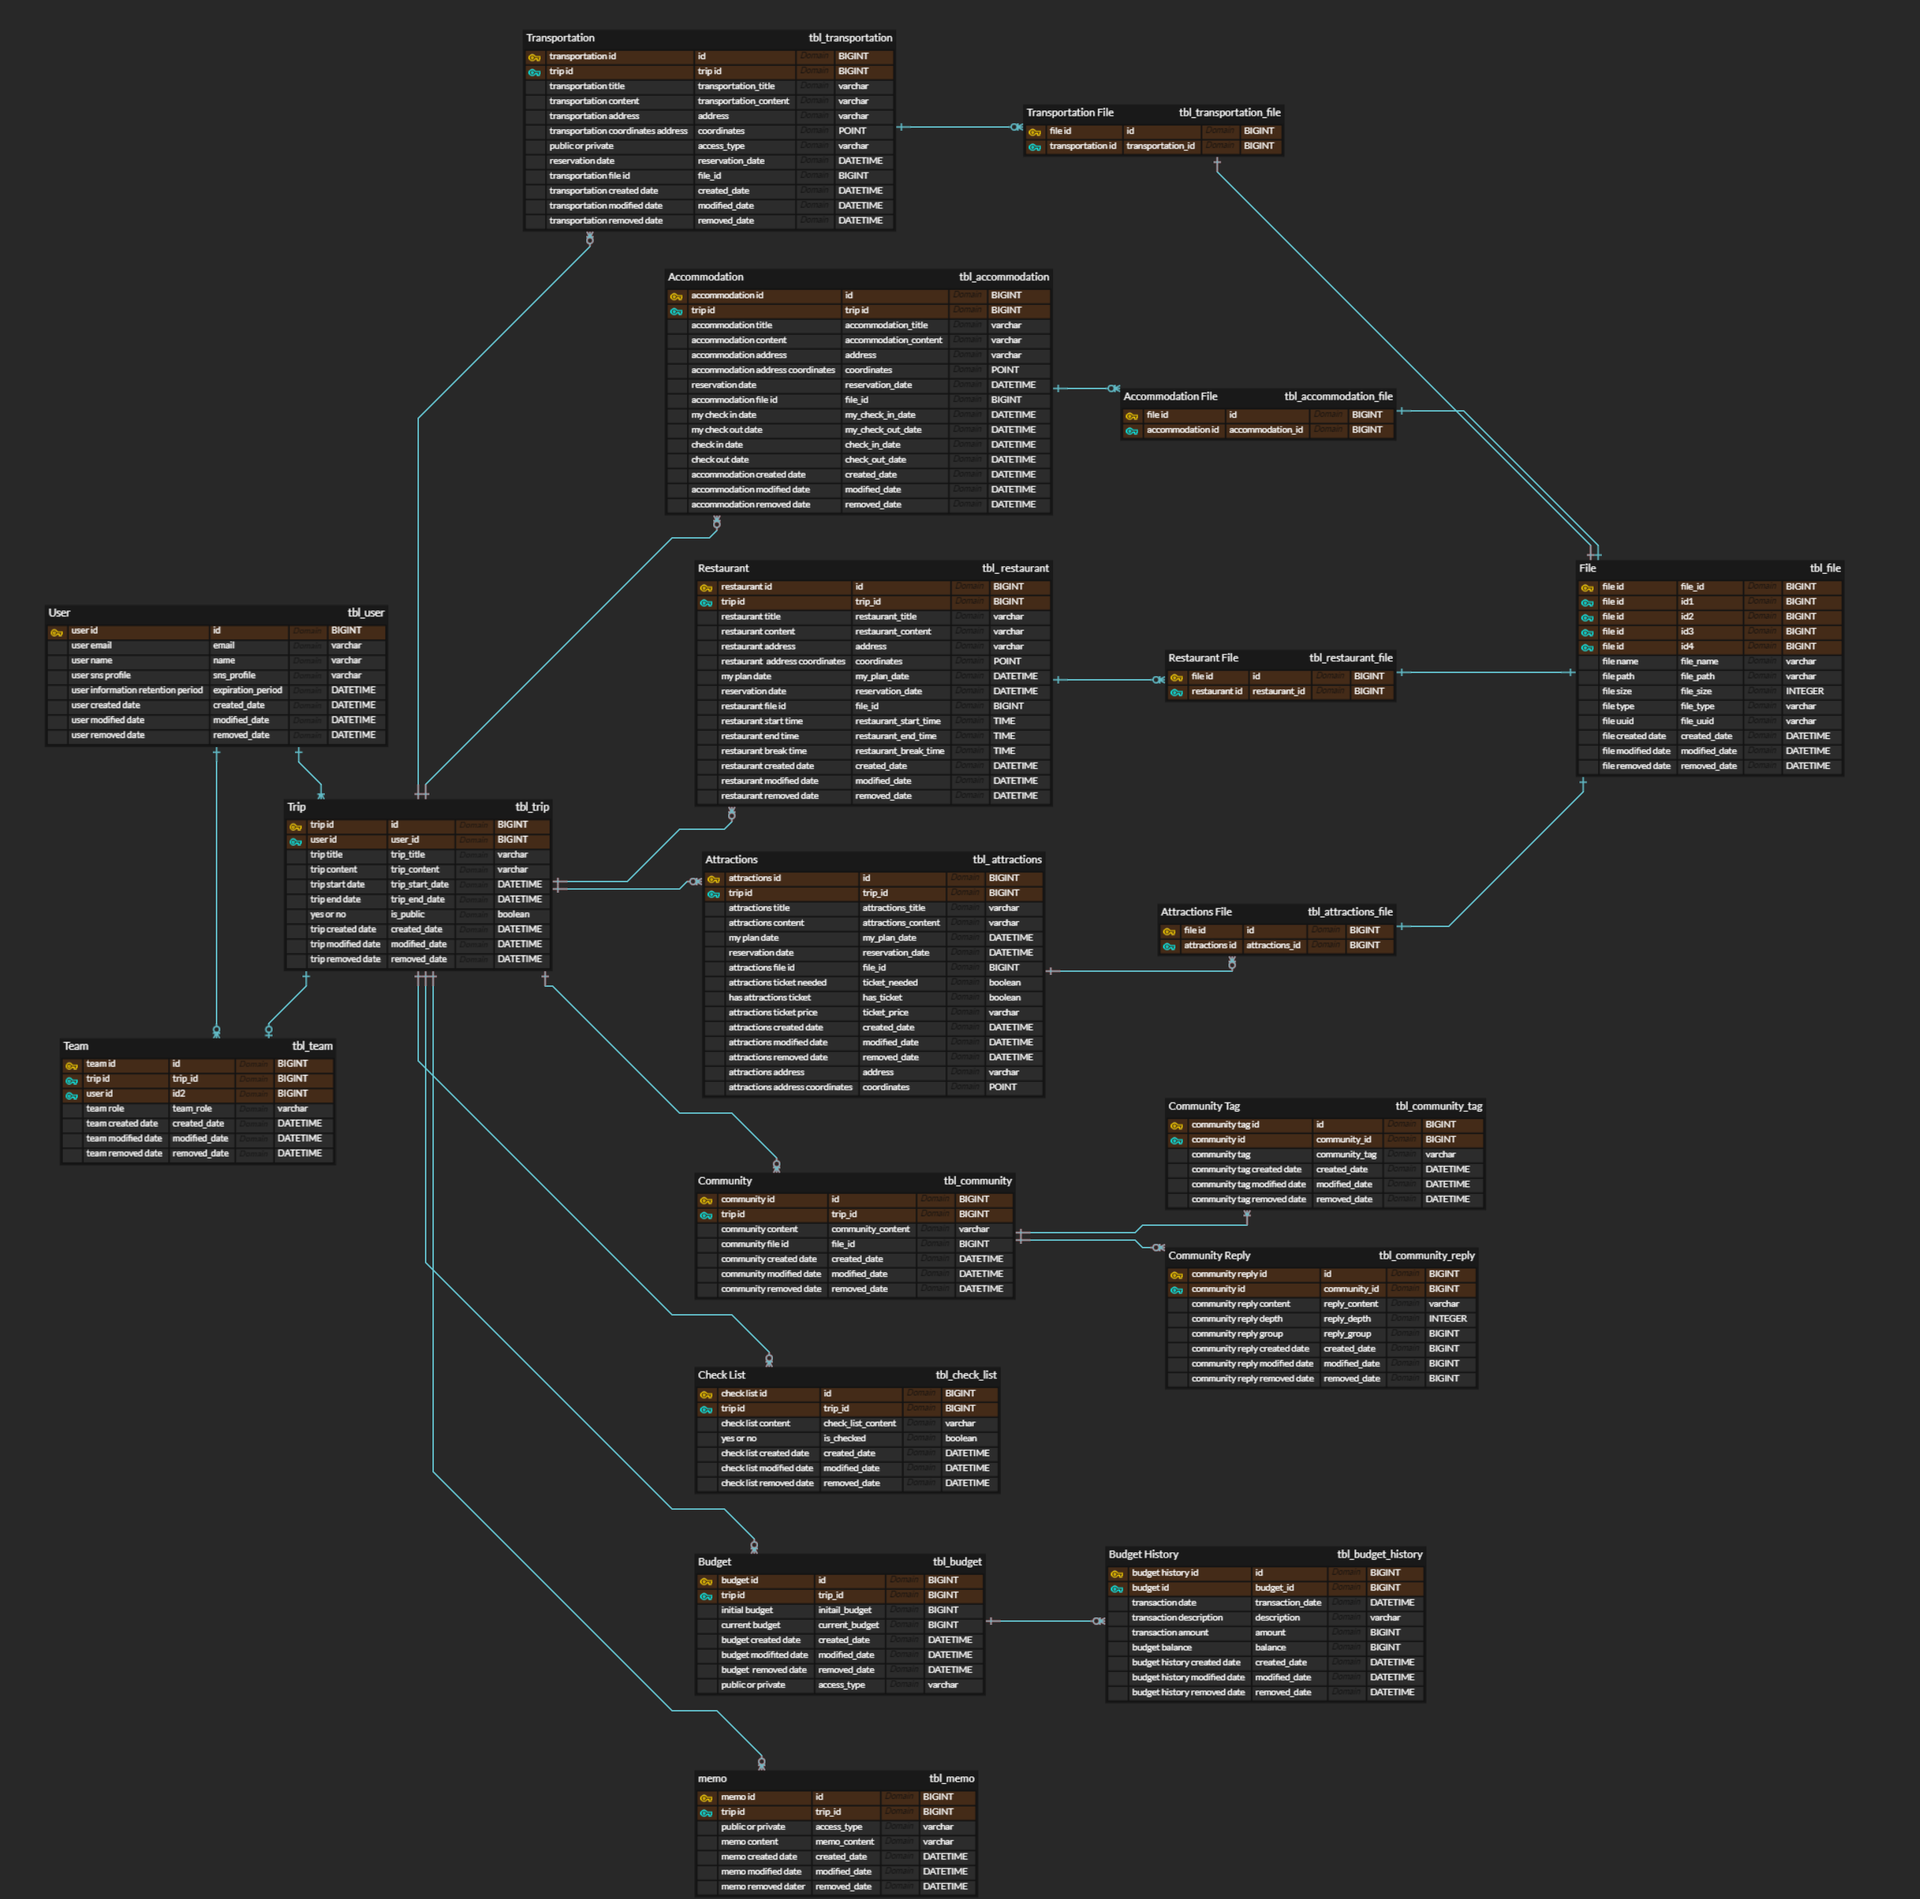
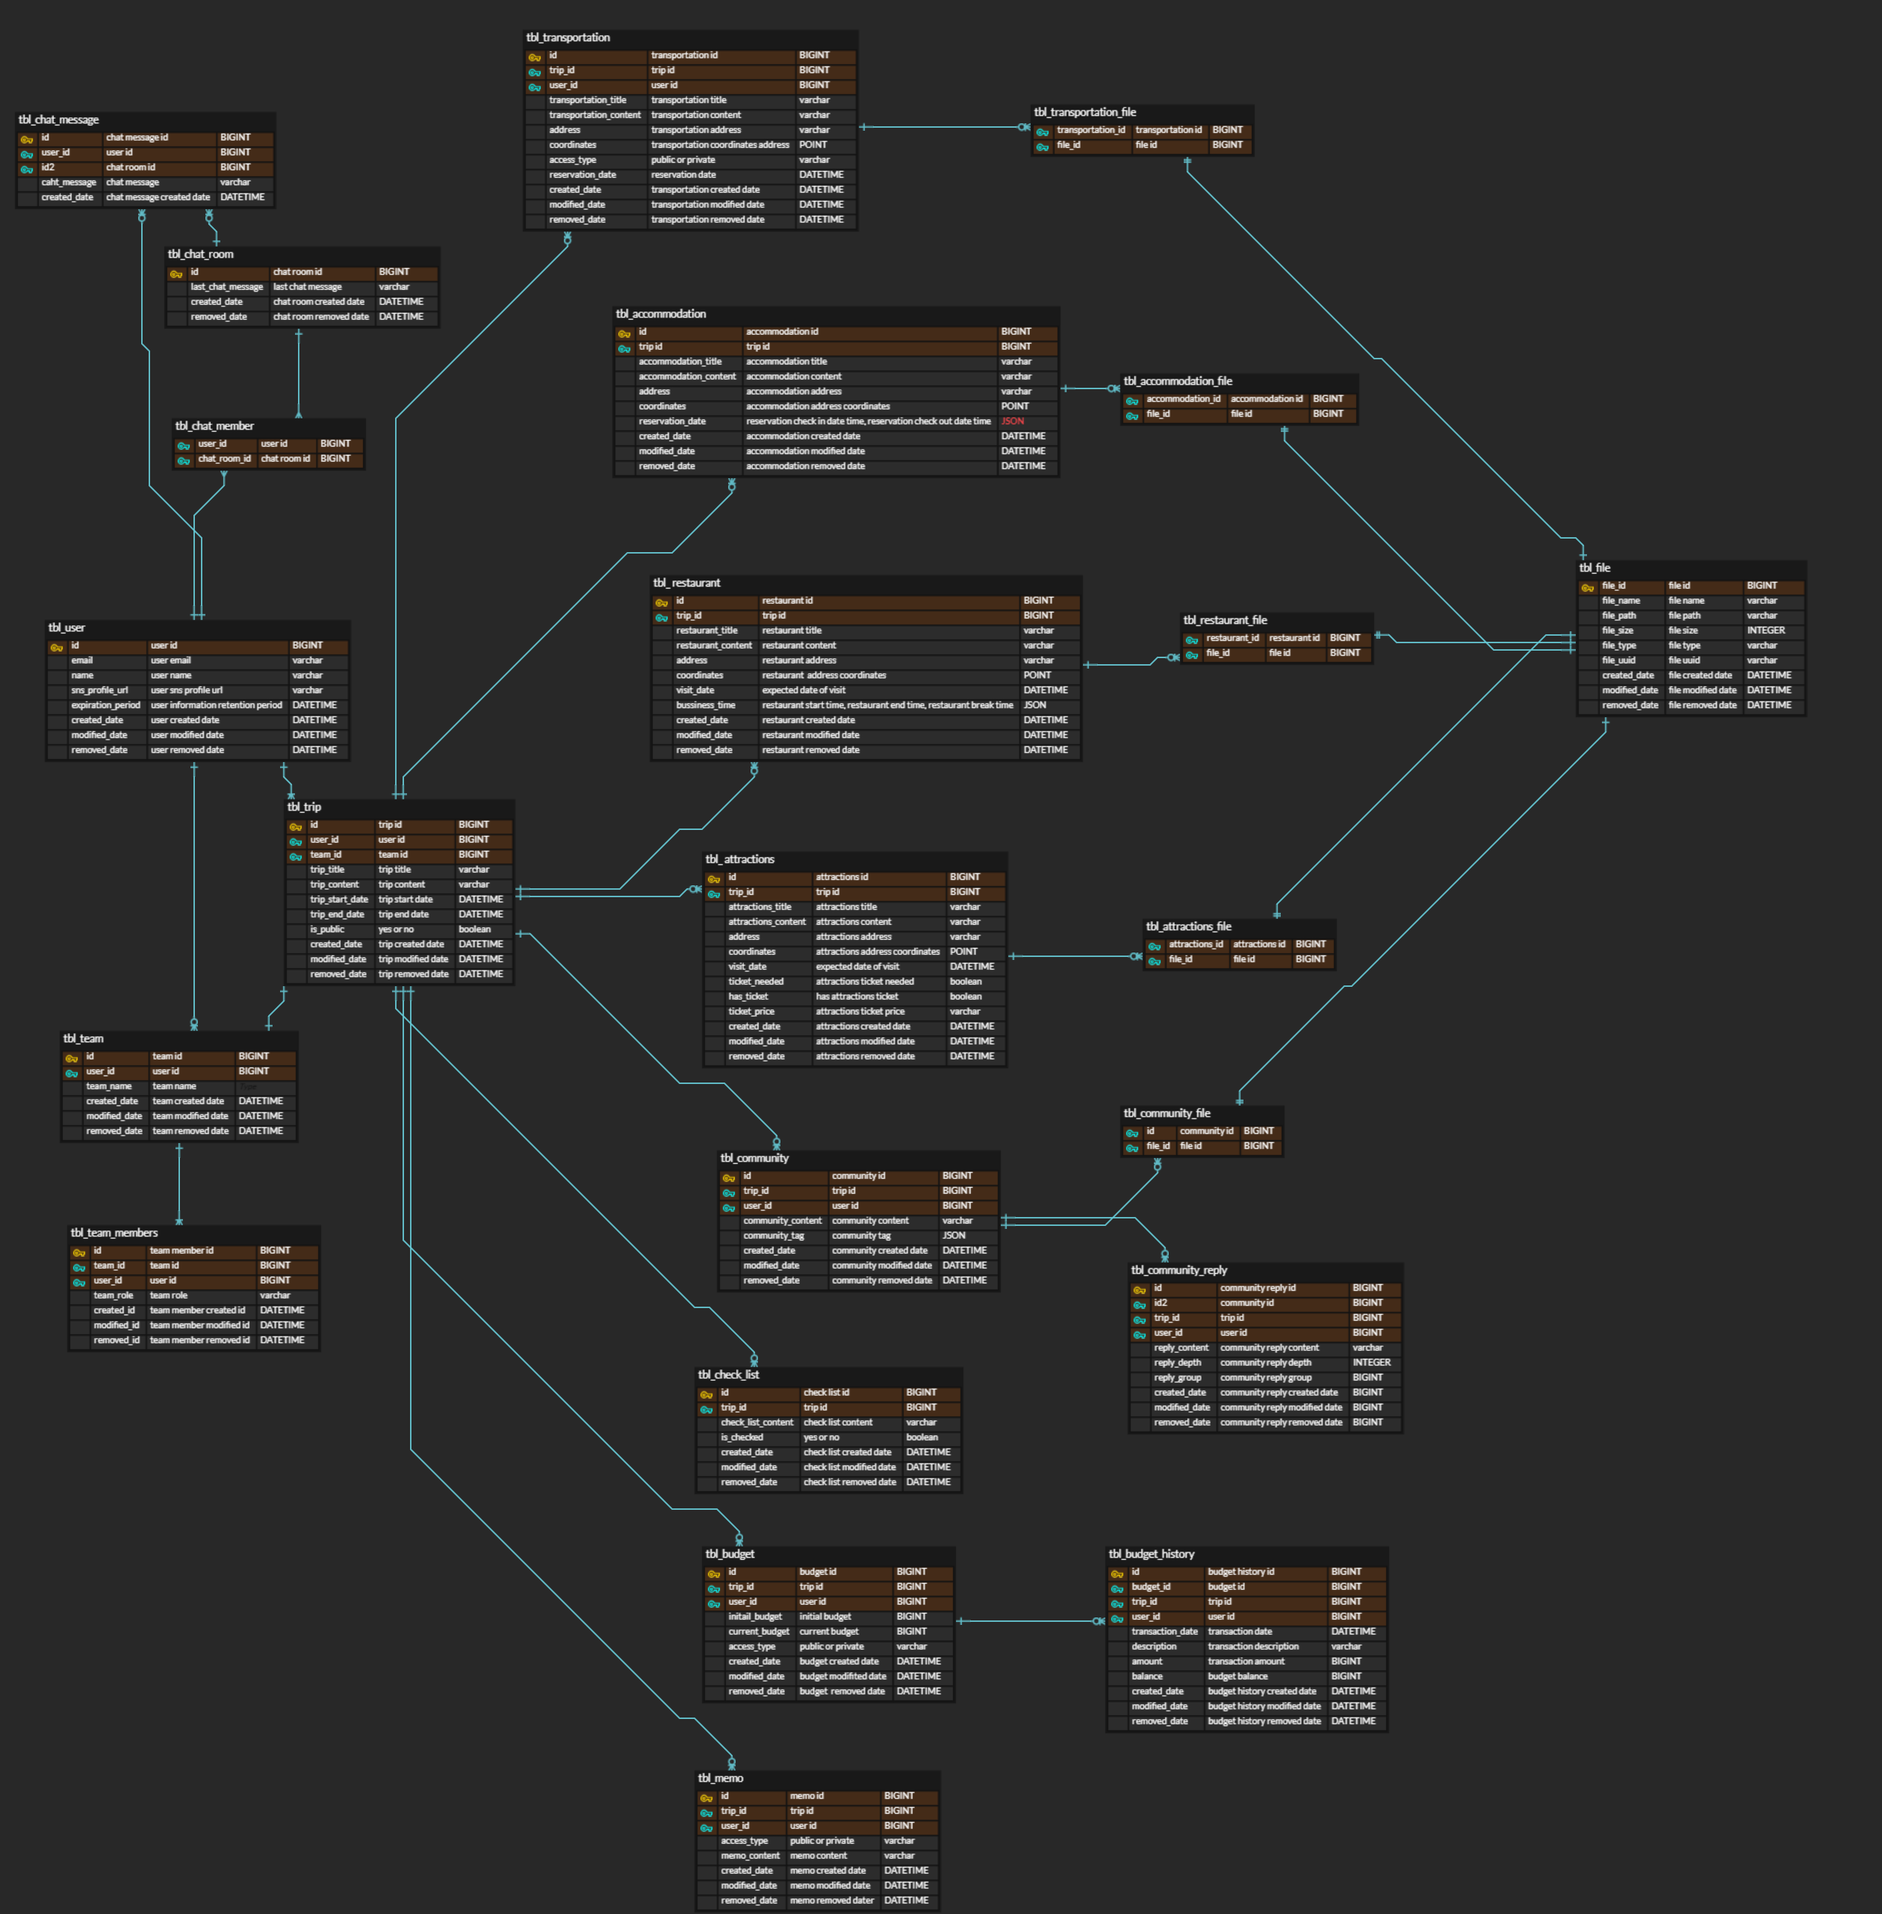
README, erd 수정

diff --git a/README.md b/README.md
@@ -15,16 +15,18 @@
    - 인증, 인가
    
    ③ 팀 관리
+   - 팀명 수정
    - 여행을 주최한 사용자가 팀원을 추가, 삭제
    - 한 사람이 여러 여행을 계획한다면 여러 팀이 생성 가능
    
    ④ 회원 탈퇴
    - 로그인 상태에서만 회원탈퇴가 가능
-   - 회원 정보는 유효기간 후에 완전 삭제
+   - 회원 탈퇴시 탈퇴시점에서 2년의 유효기간이 회원 정보에 등록
 
 
 2. 여행관리(등록/수정/삭제)
-   - 여행 제목, 전체 여행 날짜 등록
+   - 여행 제목, 간단한 설명 등록, 전체 여행 날짜 등록
+   - 등록과 동시에 팀이 자동 등록(여행 제목으로 팀명 초기 설정)
    - 공개/비공개 설정
    -> 팀원은 항상 공개이며 여행 계획 내용 수정 가능
    > 팀원 공유로 인한 ***동시성 이슈***는 **lock**을 사용하여 해결
